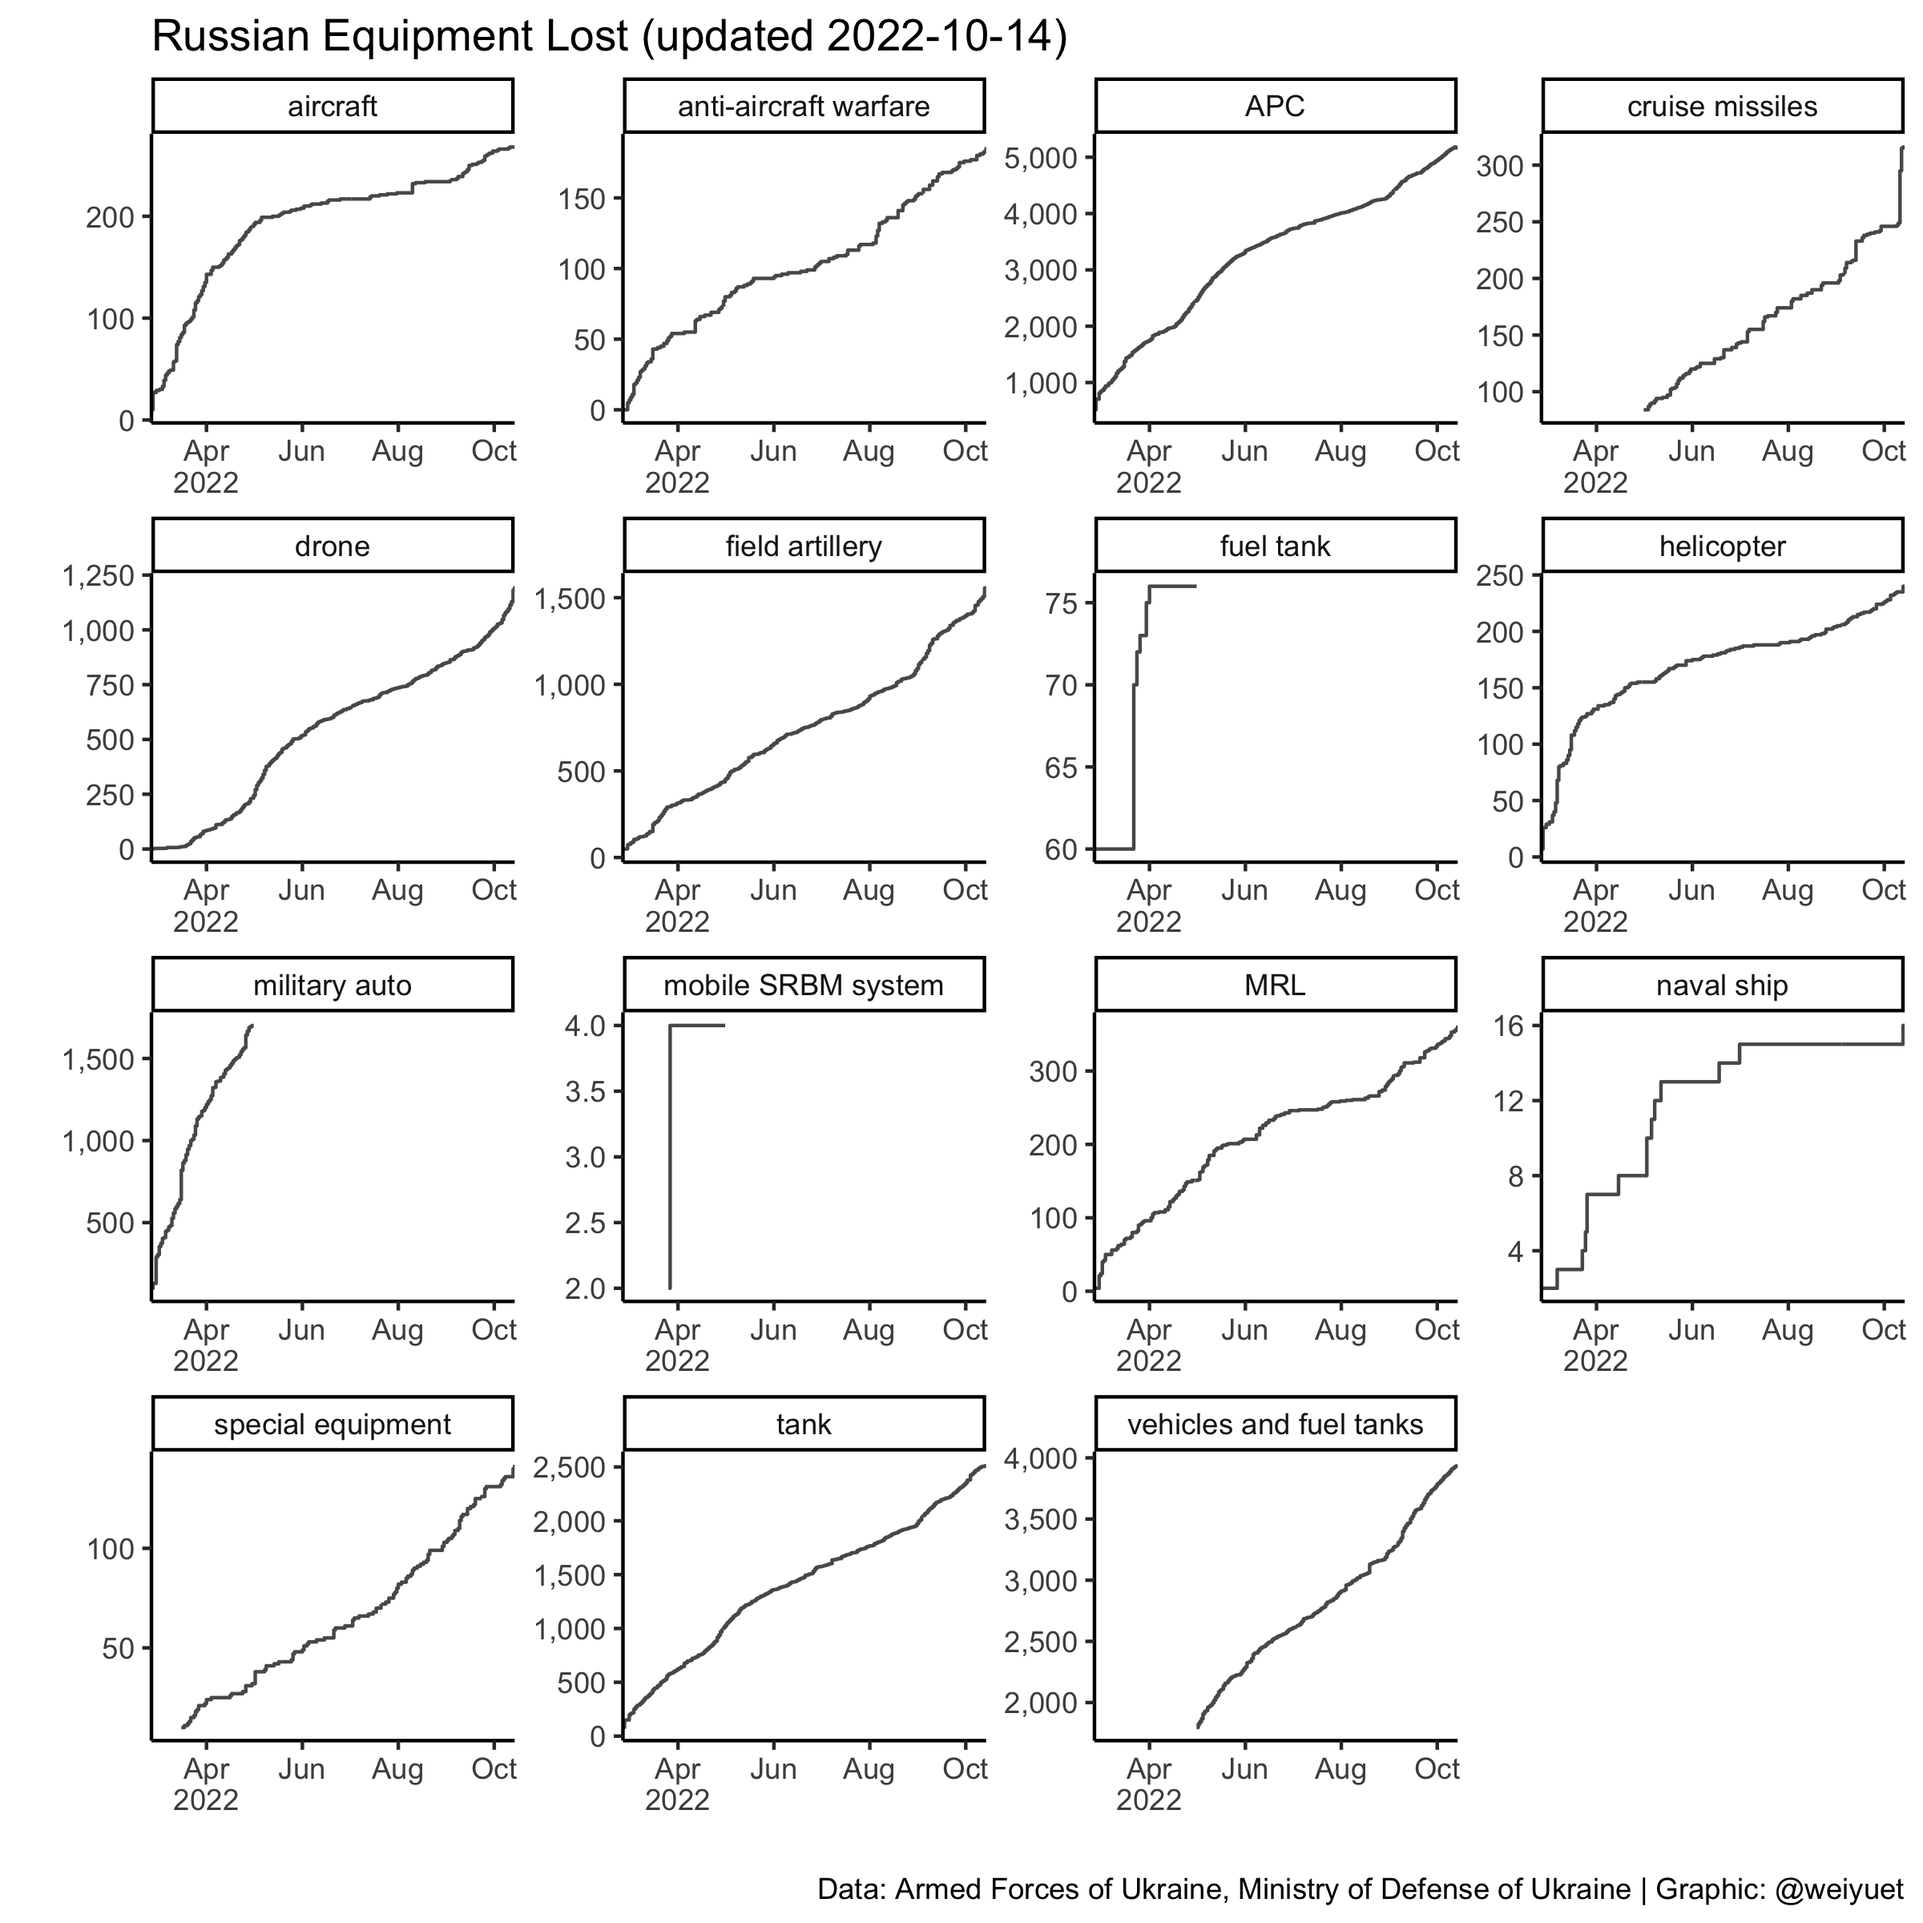
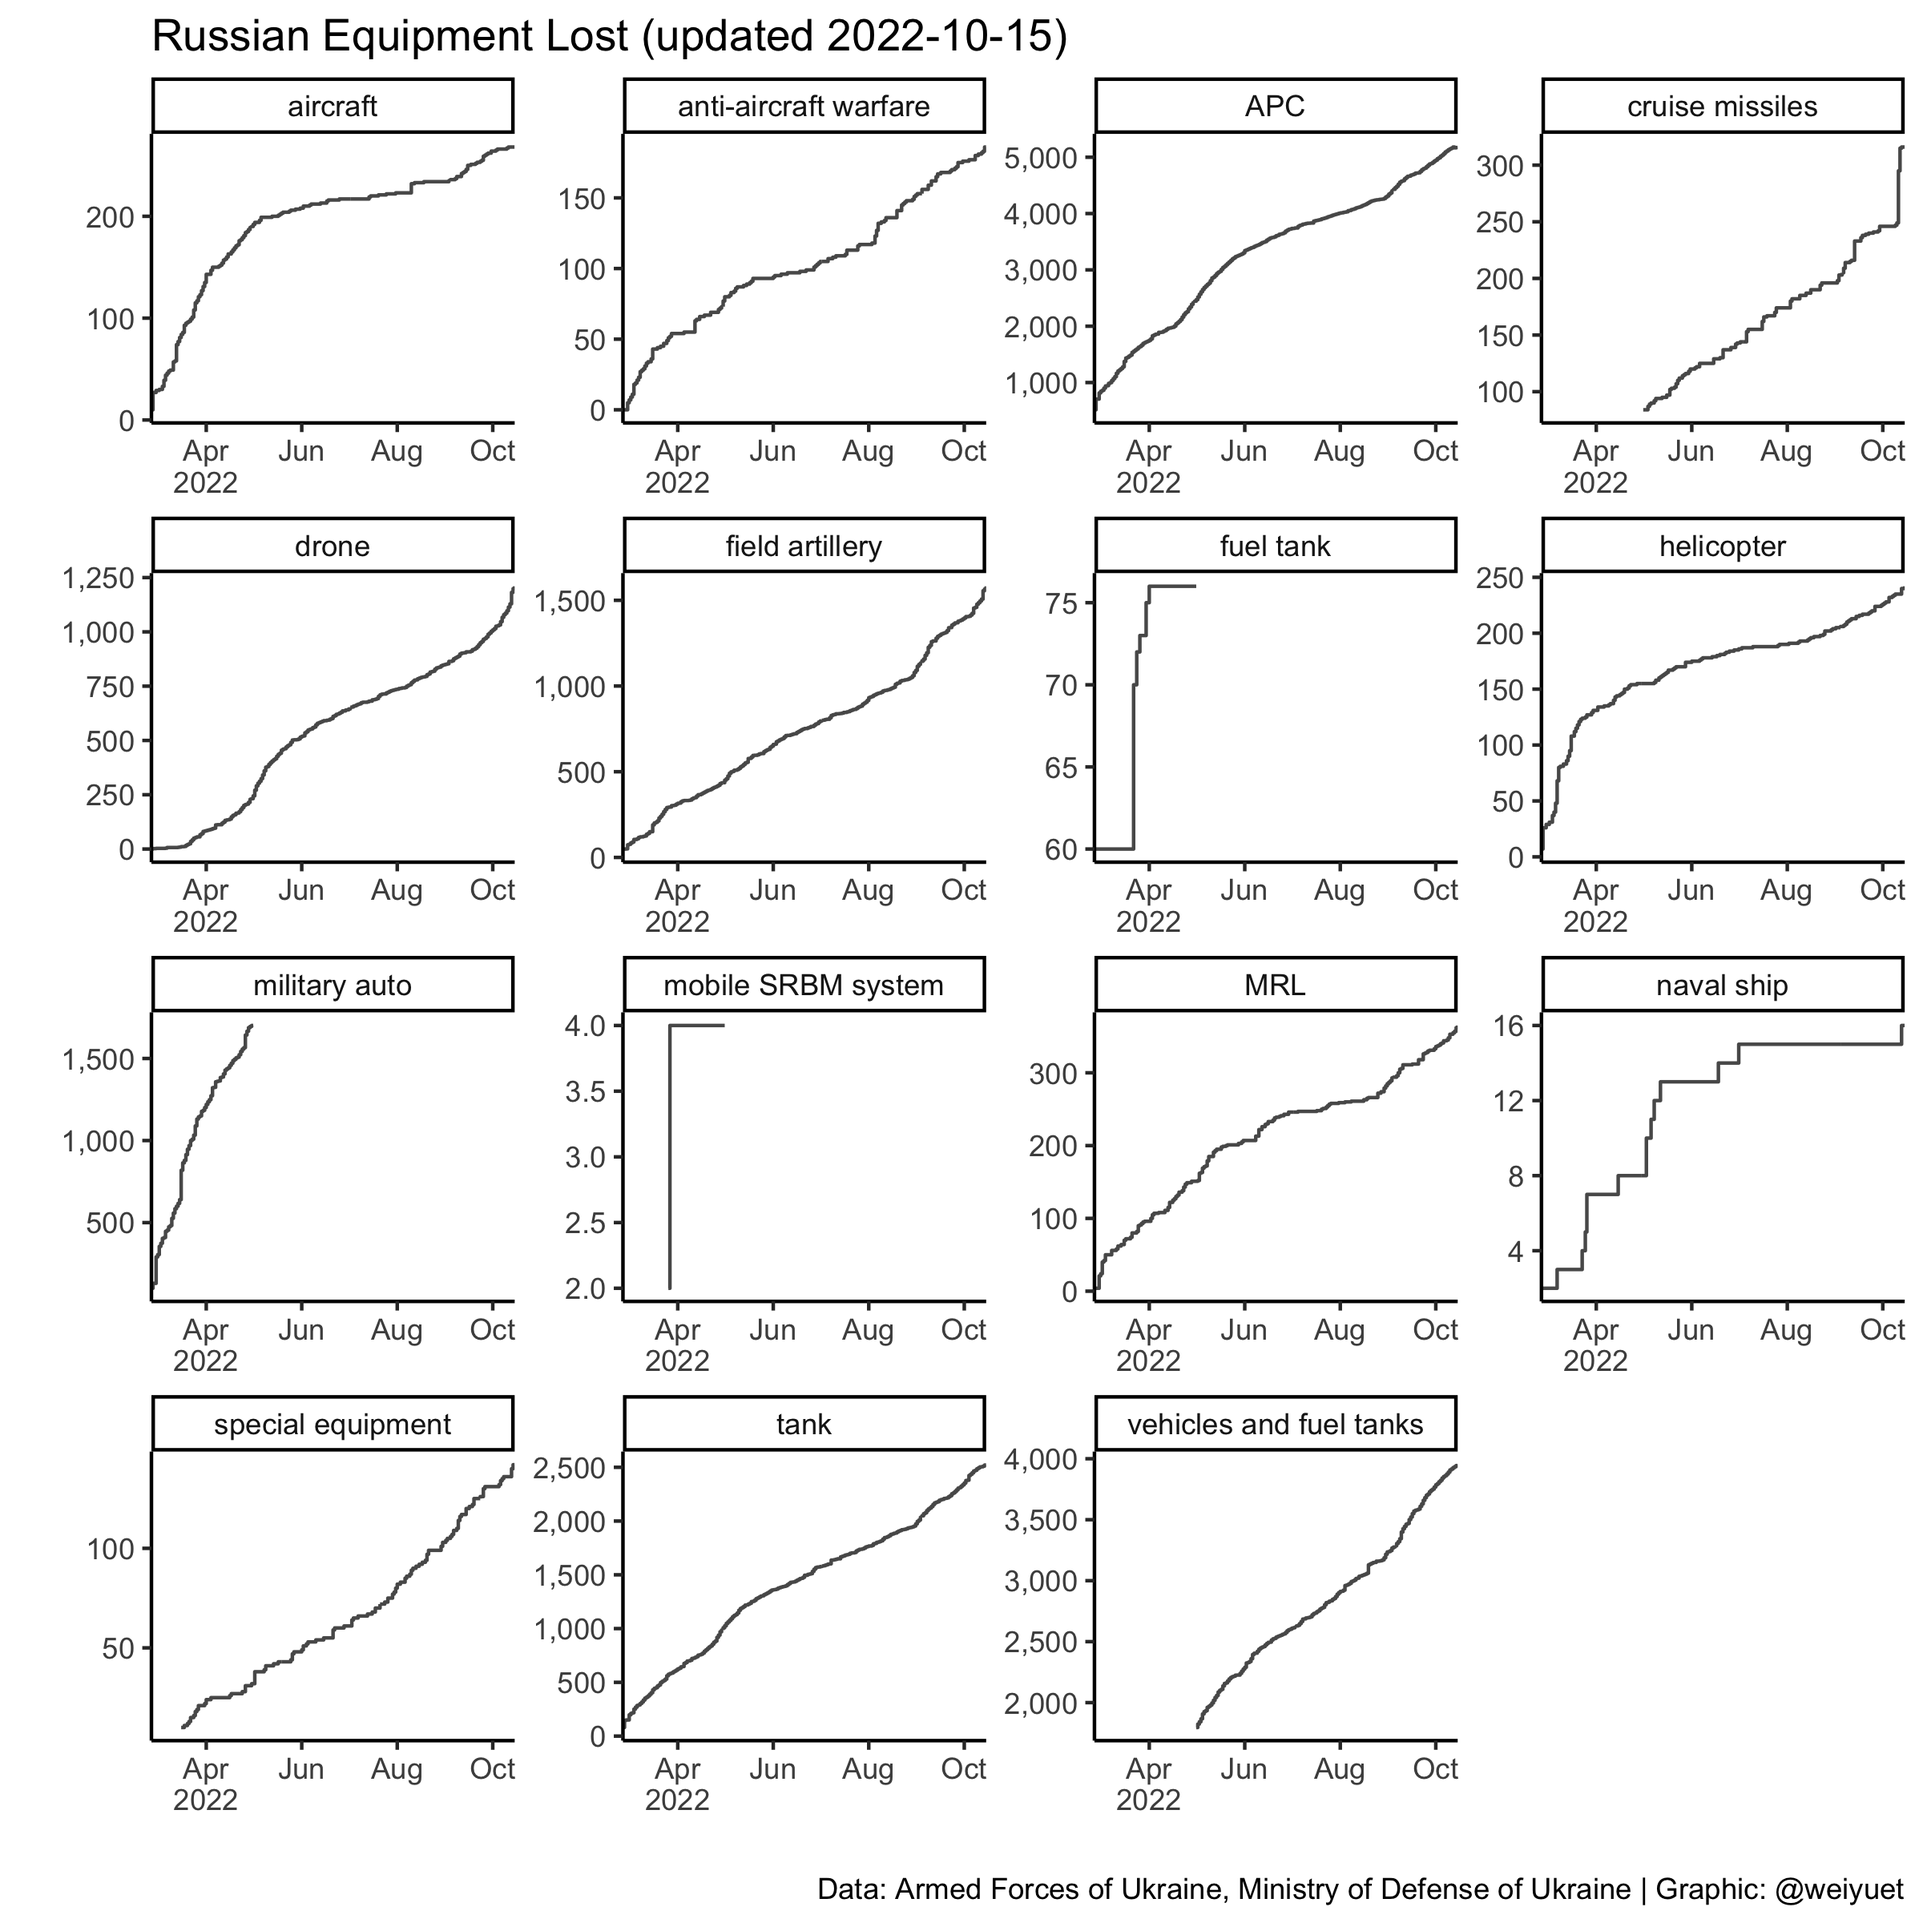
Updated 16 October

diff --git a/README.md b/README.md
@@ -4,9 +4,9 @@ Wong Wei Yuet 2022-05-26
 
   - First Inspired by [`Lena Sokol's Kaggle`](https://www.kaggle.com/code/sokolheavy/2022-ukraine-russia-war-visualization)
 
-  - War casualty data updated daily from [`Petro Ivanyuk's Kaggle`](https://www.kaggle.com/datasets/piterfm/2022-ukraine-russian-war). All data is official and put together by Petro
+  - War casualty data updated daily from [`Petro Ivanyuk's Kaggle`](https://www.kaggle.com/datasets/piterfm/2022-ukraine-russian-war). All data is official and put together by `Petro`
 
-Updated: 2022-10-14
+Updated: 2022-10-15
 
 ## Summary of Conflict
 
